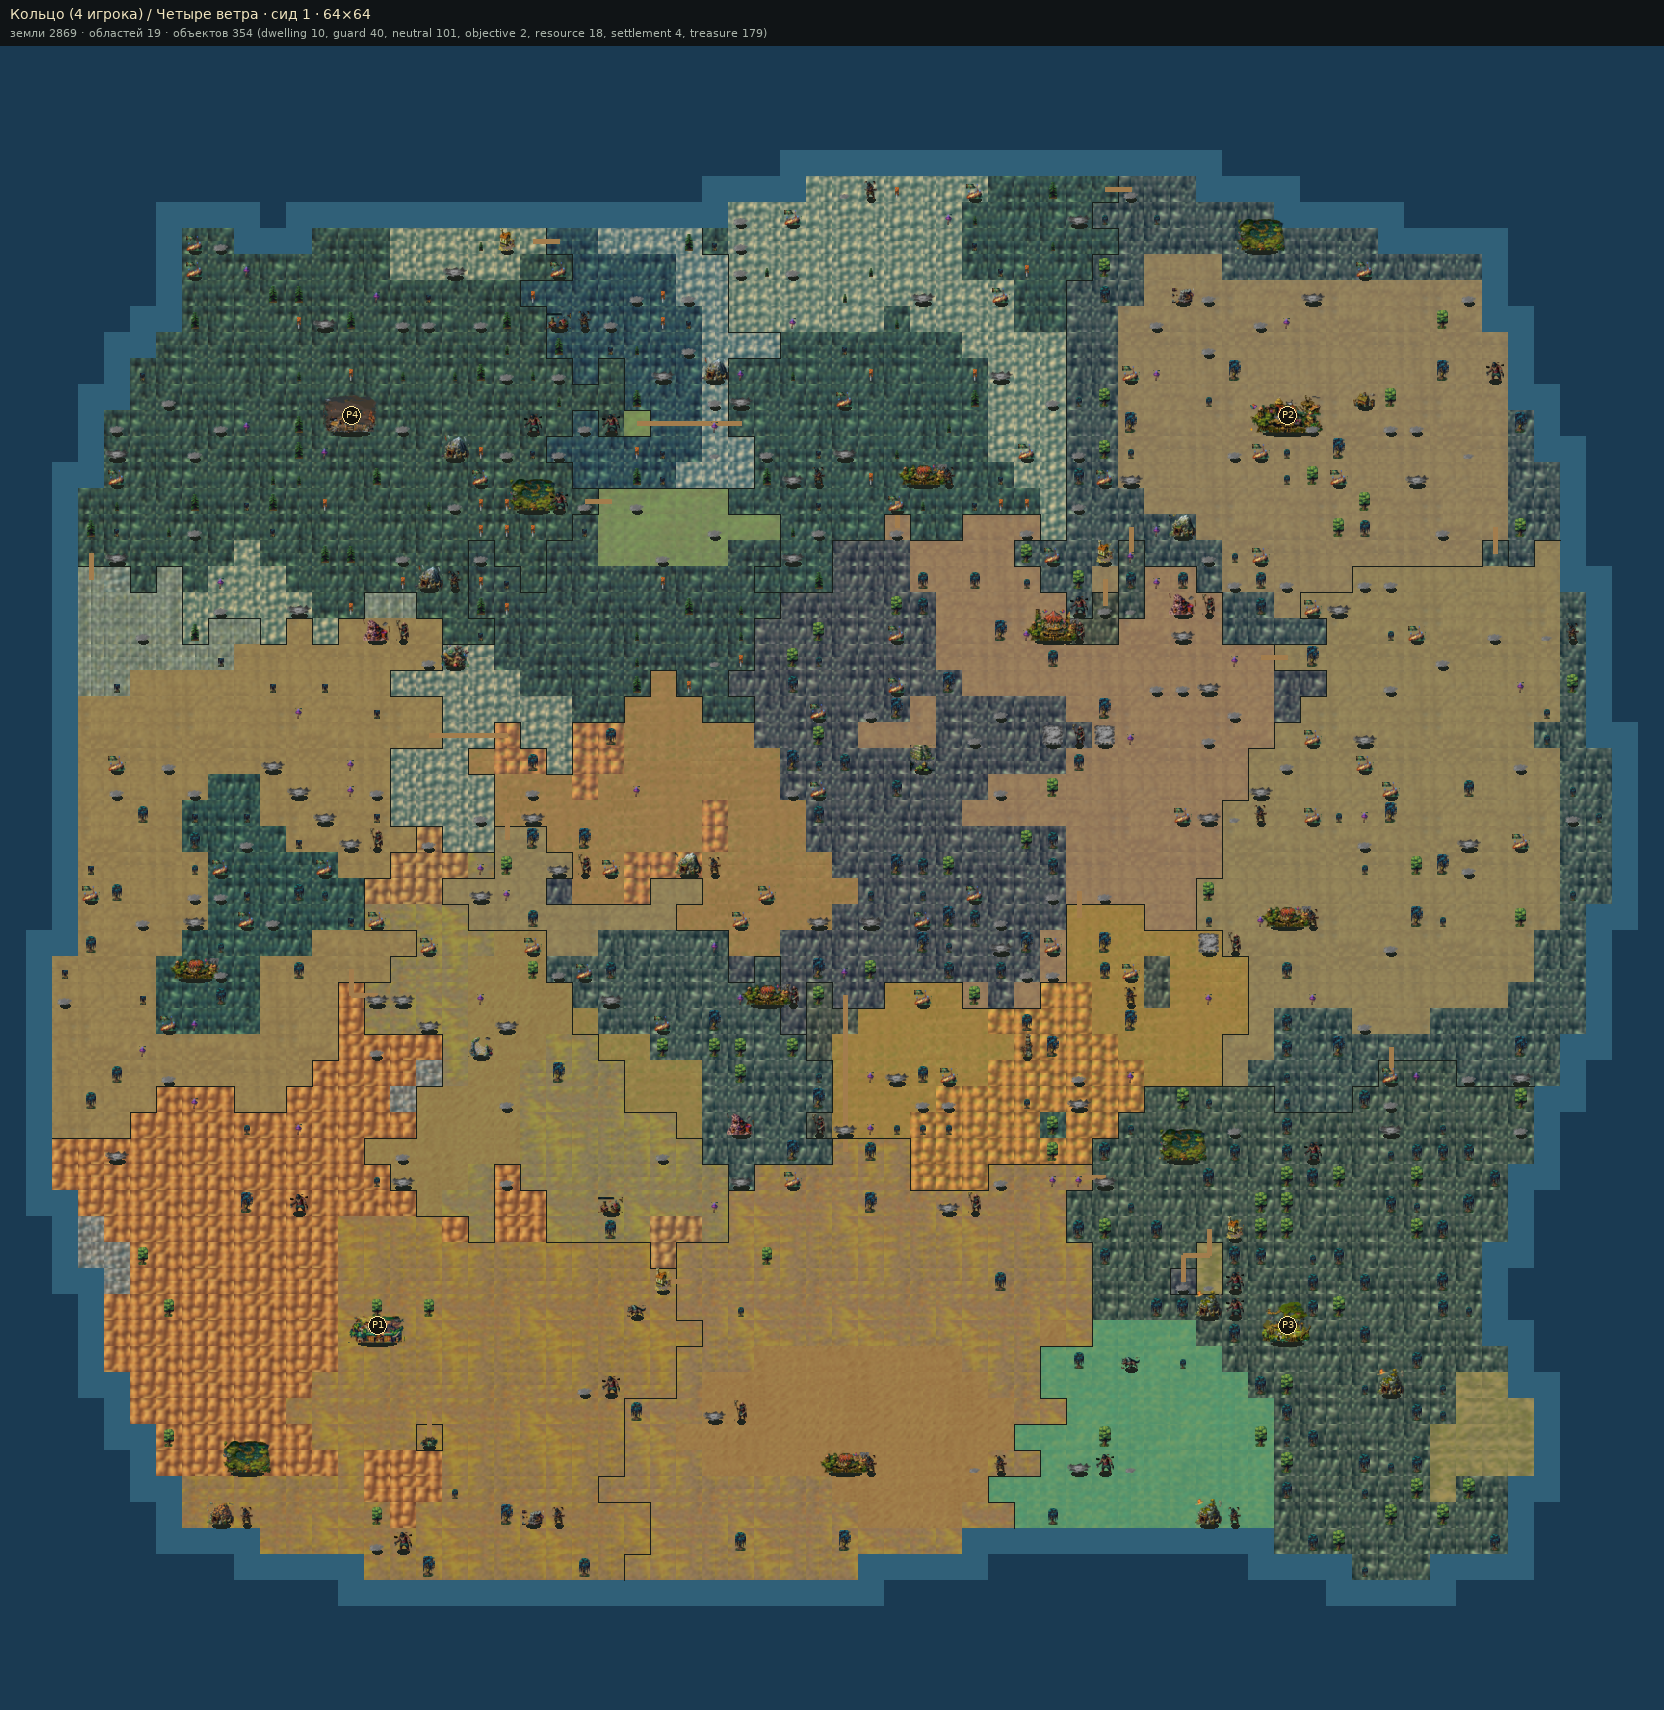
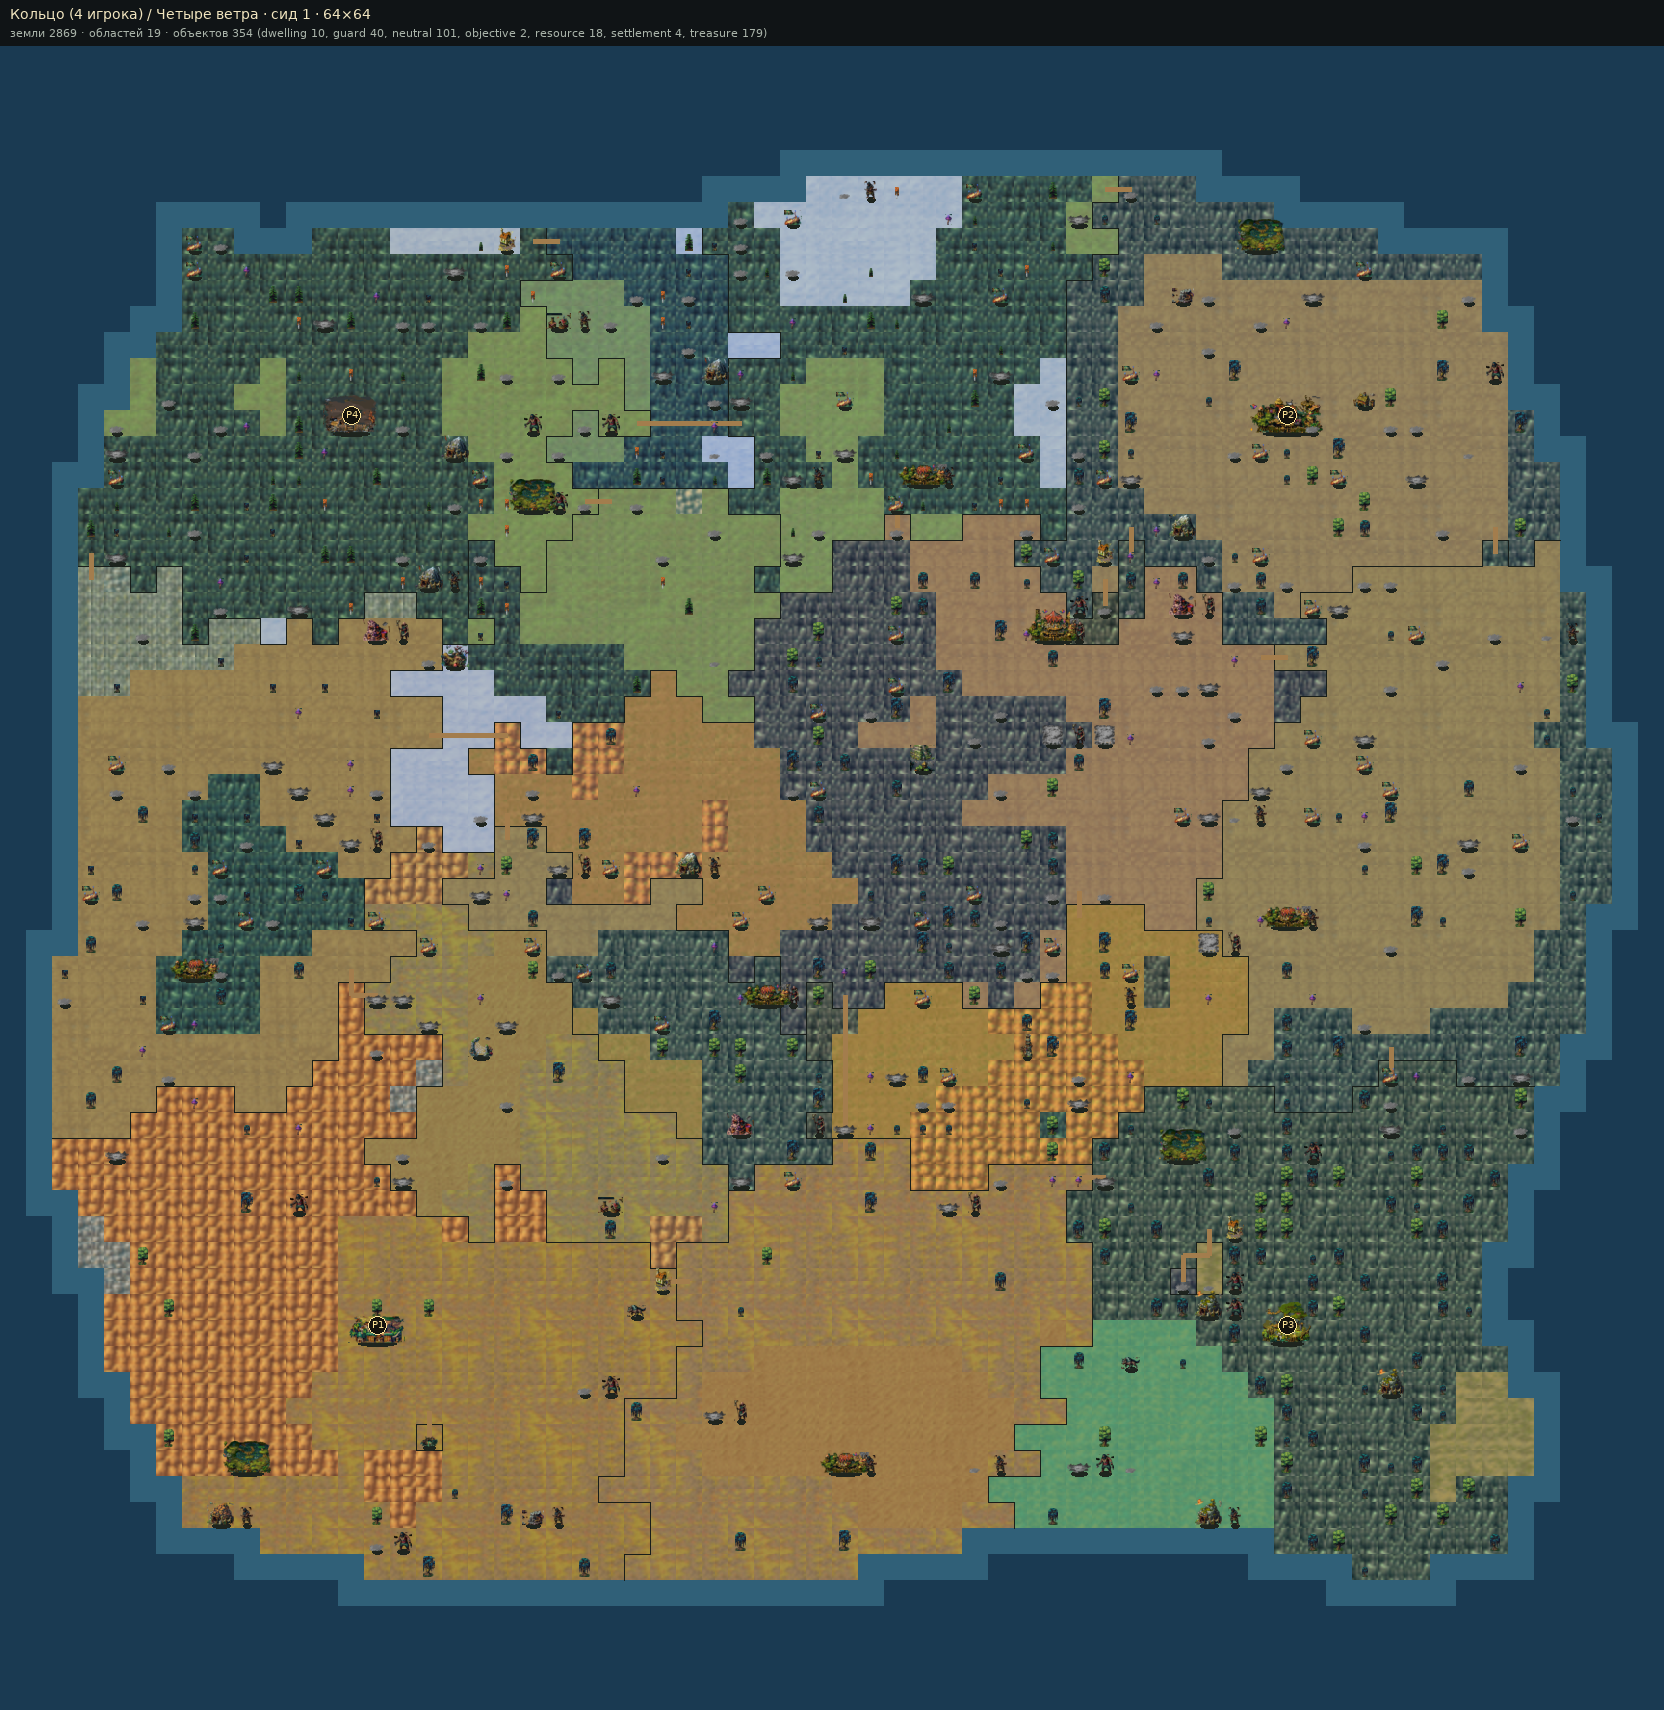
SoQ-карта: север без «снежной ряби», тени объектов, подсказки на миникарте
- AdvTerrainInfo.Pick: север — снег/сосны, скалы редкостью (было 50/50)
- SoqMapView: мягкие тени под крупными объектами, маркеры городов/целей на миникарте,
  освобождение материалов при перегенерации, дерево объектов отдельным слоем
- SoqMapScene: переключатель деревьев, поиск папки контента по нескольким путям
- WorldMapCameraRig: FocusOn/Fit — карта открывается целиком
- обновлены превью и документация

diff --git a/Assets/IronThrone/Scripts/Unity/SoqMap/SoqMapScene.cs b/Assets/IronThrone/Scripts/Unity/SoqMap/SoqMapScene.cs
@@ -53,11 +53,31 @@ namespace IronThrone.Unity.SoqMap
             Regenerate();
         }
 
+        /// <summary>
+        /// Папка IronThroneData. UnityContent грузит контент в Start() IronThroneGame,
+        /// а Awake этой сцены может сработать раньше — поэтому перебираем те же пути.
+        /// </summary>
+        private static string FindContentDirectory()
+        {
+            string cached = UnityContent.ContentDirectory;
+            if (!string.IsNullOrEmpty(cached) && Directory.Exists(cached)) return cached;
+            var candidates = new List<string>
+            {
+                Path.Combine(Application.dataPath, "IronThrone/Resources/IronThroneData"),
+                Path.Combine(Application.streamingAssetsPath, "IronThroneData"),
+                Path.Combine(Application.dataPath, "StreamingAssets/IronThroneData"),
+                Path.Combine(Directory.GetCurrentDirectory(), "Assets/IronThrone/Resources/IronThroneData"),
+            };
+            foreach (var dir in candidates)
+                if (Directory.Exists(dir)) return dir;
+            return cached;
+        }
+
         private void LoadPack()
         {
             try
             {
-                string contentDir = UnityContent.ContentDirectory;
+                string contentDir = FindContentDirectory();
                 if (string.IsNullOrEmpty(contentDir))
                     contentDir = Path.Combine(Application.dataPath, "IronThrone/Resources/IronThroneData");
                 string dir = Path.Combine(contentDir, MapGenFolder);

diff --git a/Assets/IronThrone/Scripts/Unity/SoqMap/SoqMapView.cs b/Assets/IronThrone/Scripts/Unity/SoqMap/SoqMapView.cs
@@ -787,6 +787,27 @@ namespace IronThrone.Unity.SoqMap
                 }
             }
 
+            // важные точки поверх рельефа: города, цели, старты (как экспорт миникарты в SoQ)
+            foreach (var start in _map.Starts)
+            {
+                int row = _map.Height - 1 - start.y;
+                if (row < 0 || row >= _map.Height) continue;
+                pixels[row * _map.Width + Mathf.Clamp(start.x, 0, _map.Width - 1)] = new Color(1f, 0.92f, 0.55f);
+            }
+            foreach (var obj in _map.Objects)
+            {
+                if (obj.removed) continue;
+                if (!string.Equals(obj.category, "settlement", StringComparison.OrdinalIgnoreCase) &&
+                    !string.Equals(obj.category, "objective", StringComparison.OrdinalIgnoreCase))
+                    continue;
+                int row = _map.Height - 1 - obj.y;
+                if (row < 0 || row >= _map.Height) continue;
+                var color = string.Equals(obj.category, "settlement", StringComparison.OrdinalIgnoreCase)
+                    ? new Color(0.98f, 0.98f, 0.94f)
+                    : new Color(1f, 0.45f, 0.75f);
+                pixels[row * _map.Width + Mathf.Clamp(obj.x, 0, _map.Width - 1)] = color;
+            }
+
             tex.SetPixels32(pixels);
             tex.Apply();
             tex.filterMode = FilterMode.Point;

diff --git a/Assets/IronThrone/Scripts/Core/Worldgen/AdvTerrainInfo.cs b/Assets/IronThrone/Scripts/Core/Worldgen/AdvTerrainInfo.cs
@@ -144,11 +144,11 @@ namespace IronThrone.Core.Worldgen
                 case AdvBiome.North:
                     // снег и сосны — основа севера; снежные скалы — редкая деталь,
                     // иначе регион превращается в белую «рябь» (текстура 094_snow_rock)
-                    if (nearSea && coastFactor > 0.55f && n < 0.40f) return AdvTerrain.ColdGrass;
-                    if (n < 0.28f) return AdvTerrain.Snow;
-                    if (n < 0.50f) return AdvTerrain.Tundra;
-                    if (n < 0.72f) return AdvTerrain.ForestPine;
-                    if (n < 0.90f) return AdvTerrain.ColdGrass;
+                    if (nearSea && coastFactor > 0.55f && n < 0.30f) return AdvTerrain.ColdGrass;
+                    if (n < 0.45f) return AdvTerrain.Snow;
+                    if (n < 0.62f) return AdvTerrain.ForestPine;
+                    if (n < 0.80f) return AdvTerrain.ColdGrass;
+                    if (n < 0.92f) return AdvTerrain.Tundra;
                     return AdvTerrain.SnowRock;
 
                 case AdvBiome.Desert:

diff --git a/tools/soq_mapgen_preview.py b/tools/soq_mapgen_preview.py
@@ -730,11 +730,11 @@ def generate(layout, sub, blueprint, catalog, seed, land_fraction=0.70):
 def pick_terrain(biome, patch, coast, near_sea):
     if biome == "North":
         # как AdvTerrainInfo.Pick: снег и сосны — основа, скалы — редкость
-        if near_sea and coast > 0.55 and patch < 0.40: return "ColdGrass"
-        if patch < 0.28: return "Snow"
-        if patch < 0.50: return "Tundra"
-        if patch < 0.72: return "ForestPine"
-        if patch < 0.90: return "ColdGrass"
+        if near_sea and coast > 0.55 and patch < 0.30: return "ColdGrass"
+        if patch < 0.45: return "Snow"
+        if patch < 0.62: return "ForestPine"
+        if patch < 0.80: return "ColdGrass"
+        if patch < 0.92: return "Tundra"
         return "SnowRock"
     if biome == "Desert":
         if near_sea and coast > 0.6: return "Sand"
